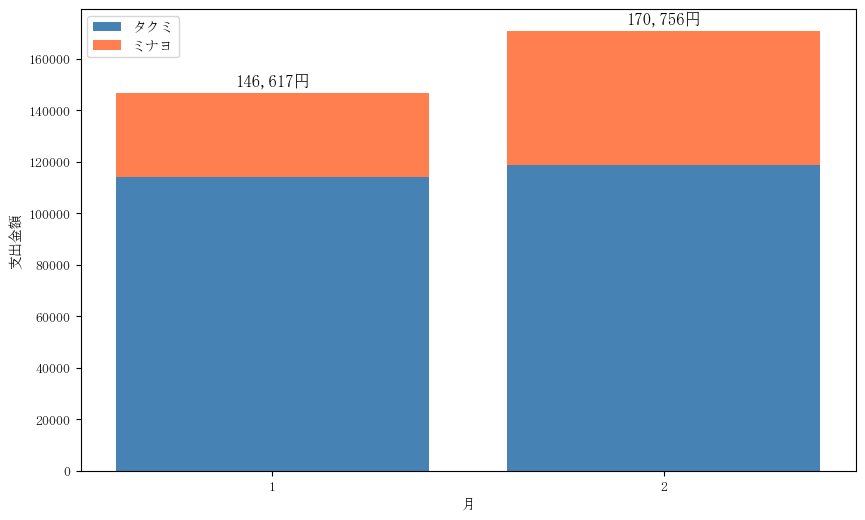
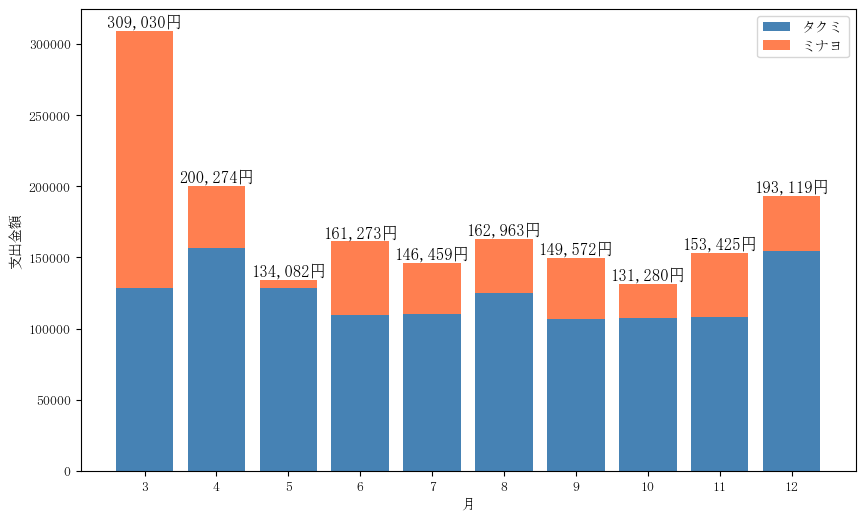
index.htmlに表示するグラフを一部変更

diff --git a/templates/index.html b/templates/index.html
@@ -23,23 +23,40 @@
 
     <div class="container">
         <h2>支出・収入のグラフ</h2>
+        <form method="POST">
+            <label for="year">年を選択：</label>
+            <select name="year" id="year" onchange="this.form.submit()">
+                {% for year in years %}
+                <option value="{{ year }}" {% if year == selected_year %}selected{% endif %}>
+                    {{ year }}
+                </option>
+                {% endfor %}
+            </select>
+        </form>
         <div class="view_erea">
             <table class="view_table">
                 <tr>
+                    <th>各月のユーザー別支出金額</th>
+                    <th>分類別年間の支出割合</th>
+                </tr>
+                <tr>
                     <td>
-                        {% if graph_url %}
-                            <img src="{{ graph_url }}" alt="分類別各月の支出金額">
+                        {% if graph_index_url %}
+                            <img src="{{ graph_index_url }}" alt="分類別各月の支出金額">
                         {% else %}
                             <p>データがありません。</p>
                         {% endif %}
                     </td>
                     <td>
-                        {% if pie_chart_url %}
-                            <img src="{{ pie_chart_url }}" alt="分類別年間の支出割合">
+                        {% if pie_user_chart_url %}
+                            <img src="{{ pie_user_chart_url }}" alt="分類別年間の支出割合">
                         {% else %}
                             <p>データがありません。</p>
                         {% endif %}
                     </td>
+                </tr>
+                <tr>
+                    <th colspan="2">各月のユーザー毎分類別支出金額リスト</th>
                 </tr>
                 <tr>
                     <td colspan="2">

diff --git a/static/style.css b/static/style.css
@@ -343,6 +343,10 @@ button[type="submit"]:hover {
     background-color: lightgreen;
 }
 
+.view_erea {
+    text-align: center;  /* 画像を中央に配置 */
+}
+
 footer {
     width: 100%; /* 画面幅いっぱいに広げる */
     max-width: 100vw; /* 画面幅を超えないようにする */

diff --git a/app.py b/app.py
@@ -47,8 +47,16 @@ def init_db():
 init_db()  # アプリ起動時にDBを確認
 
 # 📌 ホームページ（支出入力画面）
-@app.route("/")
+@app.route("/", methods=["GET", "POST"])
 def index():
+    if request.method == "POST":
+        session["selected_year"] = int(request.form.get("year", session["selected_year"]))
+
+    selected_year = session["selected_year"]
+
+    graph_index_url = create_expense_index_graph(selected_year)
+    pie_user_chart_url = create_pie_user_chart(selected_year)
+    
     conn = sqlite3.connect(DB_FILE)
     cursor = conn.cursor()
     cursor.execute("SELECT id, year, month, category, amount, user FROM expenses ORDER BY id DESC")
@@ -62,14 +70,20 @@ def index():
             CAST((SUM(CASE WHEN user = 'ミナヨ' THEN amount ELSE 0 END) - 
                     SUM(CASE WHEN user = 'タクミ' THEN amount ELSE 0 END)) / 2 AS INTEGER) AS settlement_amount
         FROM expenses
+        WHERE year = ?
         GROUP BY year, month, category
         ORDER BY year DESC, month DESC, category
-    """)
+    """, (selected_year,))
     categorized_totals = cursor.fetchall()
     
+    # データベースからユニークな年のリストを取得
+    conn = sqlite3.connect(DB_FILE)
+    cursor = conn.cursor()
+    cursor.execute("SELECT DISTINCT year FROM expenses ORDER BY year DESC")
+    years = [row[0] for row in cursor.fetchall()]
     conn.close()
 
-    return render_template("index.html", expenses=expenses, categorized_totals=categorized_totals)
+    return render_template("index.html", expenses=expenses, categorized_totals=categorized_totals, graph_index_url=graph_index_url, pie_user_chart_url=pie_user_chart_url, years=years, selected_year=selected_year)
 
 # 📌 支出入力ページ
 @app.route("/input")
@@ -487,6 +501,87 @@ def create_pie_user_chart(year):
 # ラベル表示の切り替え
 def autopct_format(pct):
     return f'{pct:.1f}%' if pct >= 3 else ''  # 3% 未満なら空文字
+
+# 📌 グラフを作成する関数（ユーザーごとの月別支出額）
+def create_expense_index_graph(year):
+    # 🔹 日本語フォントの設定
+    font_path = "/usr/share/fonts/opentype/ipafont-mincho/ipam.ttf"
+    if not os.path.exists(font_path):
+        font_candidates = fm.findSystemFonts(fontpaths=['/usr/share/fonts', '/Library/Fonts', 'C:/Windows/Fonts'])
+        font_path = next((f for f in font_candidates if 'ipag' in f.lower() or 'msmincho' in f.lower()), None)
+
+    if font_path:
+        font_prop = fm.FontProperties(fname=font_path)
+        plt.rcParams['font.family'] = font_prop.get_name()
+    else:
+        print("⚠ 日本語フォントが見つかりません！英語のまま表示します。")
+
+    conn = sqlite3.connect(DB_FILE)
+    cursor = conn.cursor()
+
+    # 各月ごとのカテゴリー別支出額を取得
+    cursor.execute("""
+        SELECT month, user, SUM(amount) 
+        FROM expenses 
+        WHERE year = ?
+        GROUP BY month, user
+        ORDER BY month ASC
+    """,(year,))
+    data = cursor.fetchall()
+    conn.close()
+
+    if not data:
+        return None  # データがなければグラフを作成しない
+
+    # データの整形
+    months = sorted(set(row[0] for row in data))  # 月のリスト
+    users = sorted(set(row[1] for row in data))  # ユーザーのリスト
+
+    user_data = {cat: [0] * len(months) for cat in users}
+
+    for month, user, amount in data:
+        month_index = months.index(month)
+        # タクミはマイナスとして扱う
+        if user == "タクミ":
+            amount = -amount
+        user_data[user][month_index] = amount
+        
+    # ユーザーごとの色を設定
+    user_colors = {
+        'タクミ': 'steelblue',
+        'ミナヨ': 'coral',
+        # 他のカテゴリーに色を追加
+    }
+
+    # 積み上げ棒グラフの描画
+    plt.figure(figsize=(10, 6))
+
+    for category, values in user_data.items():
+        color = user_colors.get(category, 'gray')
+        values_array = np.array(values)
+        bars = plt.bar(months, values_array, label=category, color=color)
+        
+        # ラベル表示
+        for i, bar in enumerate(bars):
+            height = bar.get_height()
+            if height != 0:  # 値がある場合のみラベルを表示
+                label = f"{abs(int(height)):,}円"
+                # ミナヨ（正）ならバーの上、タクミ（負）ならバーの下にラベルを置く
+                y_pos = height + 500 if height > 0 else height - 3000
+                plt.text(bar.get_x() + bar.get_width() / 2, y_pos, label,
+                        ha='center', va='bottom' if height > 0 else 'top',
+                        fontsize=11, fontweight='bold')
+
+    plt.xlabel("月")
+    plt.ylabel("支出金額")
+    plt.xticks(months)  # X軸を月に設定
+    plt.legend()
+
+    # 画像を保存
+    graph_path = os.path.join(STATIC_FOLDER, "expense_index_chart.png")
+    plt.savefig(graph_path, bbox_inches="tight")
+    plt.close()
+    return "/static/expense_index_chart.png"
 
 if __name__ == "__main__":
     app.run(debug=True)
